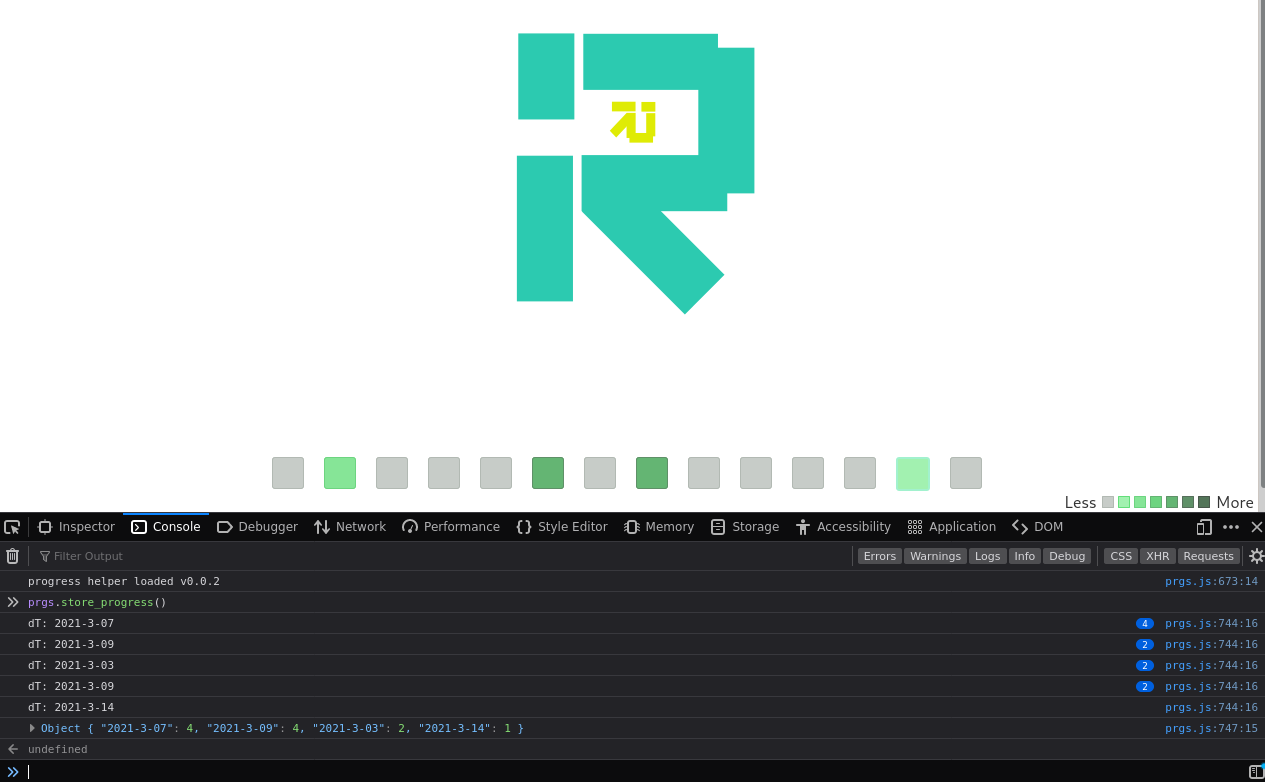
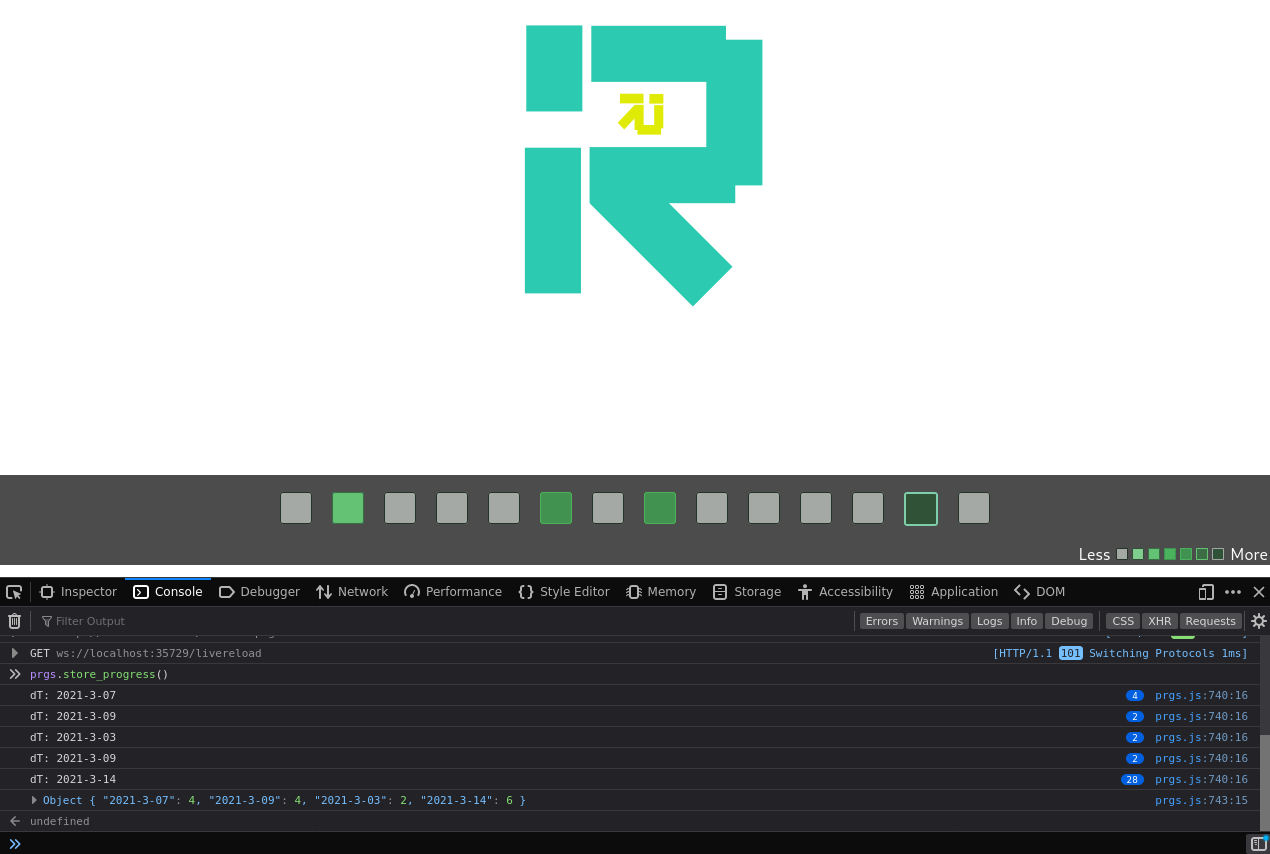
css: changed to black background with opacity

Changed region(s): [[0.0, 0.0, 1.0, 1.0], [0.4008, 0.0307, 0.6166, 0.399], [0.2466, 0.9207, 0.4008, 0.9514]]

diff --git a/src/Progress.svelte b/src/Progress.svelte
@@ -23,7 +23,7 @@
 		show = true;
 	};
 
-	console.log('progress helper loaded v0.0.2')
+	console.log('progress helper loaded v0.0.3')
 
 	function set_default(ev) {
 		localstorage_key = ev.collectionName ? ev.collectionName : window.location.href
@@ -136,10 +136,11 @@
 
 <prgs-calendar class="prgs">
 		{#if show}
-			<div id="cal"></div>
-			{#each calendar as row }
+			<div id="cal" class="days">
+				{#each calendar as row }
 				<div data-cal={row.search_date} title="{row.title}" class="{row.search_date === css_today ? 'today ' : ''}sq big sqc-{row.val}"></div>
-			{/each}
+				{/each}
+			</div>
 			<div class="legend prgs">
 				<span>Less</span>
 				<div class="sq tiny sqc-0"></div>
@@ -164,29 +165,36 @@
 		margin: -4px 4px;
 	}
 	.prgs {
-		display: flex;
-		flex-direction: row;
 		position:fixed;
-		bottom: 20px;
 		width: 100%;
-		justify-content: center;
+		background-color:hsla(0,0%,0%,0.7);
+		bottom:35px;
+	}
+	.prgs .days {
 		flex-wrap: wrap;
+		justify-content: center;
+		flex-direction: row;
+		display: flex;
+		padding:15px;
 	}
 	.prgs.legend {
-		bottom: 5px;
+		bottom: 13px;
+		display: flex;
 		justify-content: flex-end;
+		color:white;
+		padding:5px 0;
 	}
 	.sq.sqc-0 {
 		background-color: hsla(var(--green-hue), 5%, 74%,1);
-		border:1px solid hsla(var(--green-hue),  5%, 64%,1);
+		border:1px solid hsla(var(--green-hue), 25%, 14%,1);
 	}
 	.sq.sqc-1 {
 		background-color: hsla(var(--green-hue), 75%, 74%,1);
-		border:1px solid hsla(var(--green-hue), 65%, 54%,1);
+		border:1px solid hsla(var(--green-hue), 25%, 24%,1);
 	}
 	.sq.sqc-2 {
 		background-color: hsla(var(--green-hue), 65%, 64%,1);
-		border:1px solid hsla(var(--green-hue), 55%, 54%,1);
+		border:1px solid hsla(var(--green-hue), 35%, 34%,1);
 	}
 	.sq.sqc-3 {
 		background-color: hsla(var(--green-hue), 55%, 54%,1);
@@ -194,15 +202,15 @@
 	}
 	.sq.sqc-4 {
 		background-color: hsla(var(--green-hue), 45%, 44%,1);
-		border:1px solid hsla(var(--green-hue), 35%, 34%,1);
+		border:1px solid hsla(var(--green-hue), 55%, 54%,1);
 	}
 	.sq.sqc-5 {
 		background-color: hsla(var(--green-hue), 35%, 34%,1);
-		border:1px solid hsla(var(--green-hue), 25%, 24%,1);
+		border:1px solid hsla(var(--green-hue), 65%, 64%,1);
 	}
 	.sq.sqc-6 {
 		background-color: hsla(var(--green-hue), 35%, 24%,1);
-		border:1px solid hsla(var(--green-hue), 25%, 14%,1);
+		border:1px solid hsla(var(--green-hue),  5%, 74%,1);
 	}
 	.sq {
 		height: 30px;
@@ -221,7 +229,7 @@
 		border-radius: 1px;
 	}
 	@media only screen and (max-width: 480px) {
-		.legend {display:none;}
+		.prgs .legend {display:none;}
 		.sq {
 			margin: 2px 2px;
 			height: 15px;

diff --git a/public/index.html b/public/index.html
@@ -17,14 +17,9 @@
 
 <body>
 	<h1 align="center">
-		<br>
-		<br>
 		<a href="https://rutynka.io">
 			<img width="320" src="/rutynka_logo_micro.svg" alt="rutynka">
 		</a>
-		<br>
-		<br>
-		<br>
 	</h1>
 </body>
 </html>

diff --git a/public/global.css b/public/global.css
@@ -1,7 +1,5 @@
 html, body {
 	position: relative;
-	width: 100%;
-	height: 100%;
 }
 
 body {
